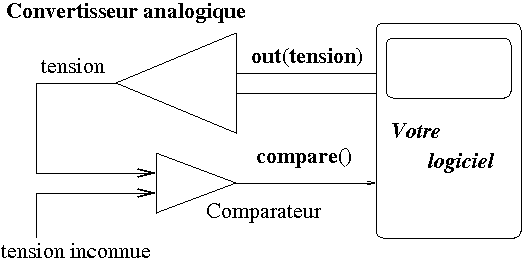
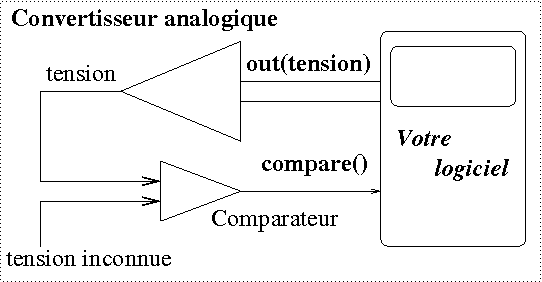
git-svn-id: https://scm.gforge.inria.fr/anonscm/svn/javascool@639 79b98d2d-744f-0410-929f-8ac7b80d50f7

diff --git a/javascool_V3/trunk/org.javascool/src/org/javascool/doc-files/about-keystrokes.htm b/javascool_V3/trunk/org.javascool/src/org/javascool/doc-files/about-keystrokes.htm
@@ -1,0 +1,92 @@
+
+<!DOCTYPE html
+  PUBLIC "-//W3C//DTD HTML 3.2 Final//EN" "http://www.w3.org/TR/html4/strict.dtd">
+<div>
+   <h2>Table des raccourcis.</h2>
+   
+   
+   <table align="center" width="90%" bgcolor="#eeeeee" class="table">
+      <h2>Editeur de texte ou donn&eacute;e.</h2>
+          
+      <tr>
+         <td valign="top"></td>
+         <td valign="top"></td>
+         <td valign="top"></td>
+      </tr>
+          
+      <tr>
+         <td valign="top">Control O</td>
+         <td valign="top">(open)</td>
+         <td valign="top">Ouvrir un fichier pour l'&eacute;diter</td>
+      </tr>
+          
+      <tr>
+         <td valign="top">Control S</td>
+         <td valign="top">(save)</td>
+         <td valign="top">Sauvegarder le contenu &eacute;dit&eacute; dans un fichier</td>
+      </tr>
+          
+      <tr>
+         <td valign="top">Control L</td>
+         <td valign="top">(launch)</td>
+         <td valign="top">Valider / compiler le contenu &eacute;dit&eacute;</td>
+      </tr>
+          
+      <tr>
+         <td valign="top">Control Q</td>
+         <td valign="top">(quit)</td>
+         <td valign="top">Quitter le logiciel</td>
+      </tr>
+          
+      <tr>
+         <td valign="top"></td>
+         <td valign="top"></td>
+         <td valign="top"></td>
+      </tr>
+          
+      <tr>
+         <td valign="top">Control C</td>
+         <td valign="top">(copy)</td>
+         <td valign="top">Copier la portion de texte ou de donn&eacute;e s&eacute;lectionn&eacute;e</td>
+      </tr>
+          
+      <tr>
+         <td valign="top">Control X</td>
+         <td valign="top">(cut)</td>
+         <td valign="top">Couper la portion de texte ou de donn&eacute;e s&eacute;lectionn&eacute;e</td>
+      </tr>
+          
+      <tr>
+         <td valign="top">Control V</td>
+         <td valign="top">(paste)</td>
+         <td valign="top">Coller la portion de texte ou de donn&eacute;e s&eacute;lectionn&eacute;e, pr&eacute;cdemment copi&eacute;e ou coup&eacute;e</td>
+      </tr>
+          
+      <tr>
+         <td valign="top"></td>
+         <td valign="top"></td>
+         <td valign="top"></td>
+      </tr>
+        
+   </table>
+   
+     
+   <table align="center" width="90%" bgcolor="#eeeeee" class="table">
+      <h2>Editeur de texte.</h2>
+          
+      <tr>
+         <td valign="top">Control Z</td>
+         <td valign="top">(undo)</td>
+         <td valign="top">Annuler la derni&egrave;re commande d'&eacute;dition</td>
+      </tr>
+          
+      <tr>
+         <td valign="top">Control Y</td>
+         <td valign="top">(redo)</td>
+         <td valign="top">Restaurer la derni&egrave;re commande d'&eacute;dition</td>
+      </tr>
+        
+   </table>
+   
+   
+</div>

diff --git a/javascool_V3/trunk/org.javascool/src/org/javascool/SourceEditor.java b/javascool_V3/trunk/org.javascool/src/org/javascool/SourceEditor.java
@@ -74,6 +74,7 @@ import javax.swing.event.DocumentListener;
 import javax.swing.event.DocumentEvent;
 
 /** This widget defines a general proglet source editor.
+ * @see <a href="doc-files/about-keystrokes.htm">key-strokes (in French)</a>
  * @see <a href="SourceEditor.java.html">source code</a>
  * @serial exclude
  */
@@ -127,21 +128,21 @@ public class SourceEditor extends JPanel implements Widget,Editor {
       menu.add(undo.getRedoItem());
       menu.addSeparator();
       JMenuItem item;
-      menu.add(item = new JMenuItem(getAction(pane, DefaultEditorKit.copyAction))); item.setText("^C Copy");
-      menu.add(item = new JMenuItem(getAction(pane, DefaultEditorKit.cutAction))); item.setText("^X Cut");
-      menu.add(item = new JMenuItem(getAction(pane, DefaultEditorKit.pasteAction))); item.setText("^V Paste");
+      menu.add(item = new JMenuItem(getAction(pane, DefaultEditorKit.copyAction))); item.setText("Copier");
+      menu.add(item = new JMenuItem(getAction(pane, DefaultEditorKit.cutAction))); item.setText("Couper");
+      menu.add(item = new JMenuItem(getAction(pane, DefaultEditorKit.pasteAction))); item.setText("Coller");
       menu.addSeparator();
-      menu.add(item = new JMenuItem(getAction(pane, DefaultEditorKit.selectAllAction))); item.setText("^A Select all");
+      menu.add(item = new JMenuItem(getAction(pane, DefaultEditorKit.selectAllAction))); item.setText("Tout sélectionner");
       menu.addSeparator();     
       // Adds a print interface
-      AbstractAction print = new AbstractAction("^P Print") {
+      AbstractAction print = new AbstractAction("Imprimer") {
 	  private static final long serialVersionUID = 1L;
 	  public void actionPerformed(ActionEvent evt) { 
 	    doPrint();
 	  }
 	};
       menu.add(new JMenuItem(print));
-      addBinding(pane, KeyEvent.VK_P, print);
+      // addBinding(pane, KeyEvent.VK_P, print);
 
       // Textfind/replace manager: to be improved before use
       // menu.addSeparator();
@@ -259,13 +260,13 @@ public class SourceEditor extends JPanel implements Widget,Editor {
       addBinding(pane, KeyEvent.VK_Z, undo_action);
       addBinding(pane, KeyEvent.VK_Y, redo_action);
     }
-    private Action undo_action = new AbstractAction("^Z Undo") {
+    private Action undo_action = new AbstractAction("Annuler") {
 	private static final long serialVersionUID = 1L;
 	public void actionPerformed(ActionEvent evt) { 
 	  try { if (canUndo()) undo(); undoUpdate(); } catch (Exception e) { }
 	}
       };
-    private Action redo_action = new AbstractAction("^Y Redo") {
+    private Action redo_action = new AbstractAction("Restaurer") {
 	private static final long serialVersionUID = 1L;
 	public void actionPerformed(ActionEvent evt) { 
 	  try { if (canRedo()) redo(); undoUpdate(); } catch (Exception e) { }
@@ -321,14 +322,14 @@ public class SourceEditor extends JPanel implements Widget,Editor {
       addBinding(pane, KeyEvent.VK_R, replace_action);
     }
     private JTextComponent pane;
-    private Action search_action = new AbstractAction("^S   Search:") {
+    private Action search_action = new AbstractAction("Chercher") {
 	private static final long serialVersionUID = 1L;
 	public void actionPerformed(ActionEvent e) { 
 	  if (search != null)
 	    doFindReplace(search.getText(), null);
 	}
       };
-    private Action replace_action = new AbstractAction("^R Replace:") {
+    private Action replace_action = new AbstractAction("Remplacer") {
 	private static final long serialVersionUID = 1L;
 	public void actionPerformed(ActionEvent e) {
 	  if ((search != null) && (replace != null))
@@ -338,13 +339,13 @@ public class SourceEditor extends JPanel implements Widget,Editor {
     /** Returns the search button. * /
     public JPanel getSearchItem(JMenu menu) {
       if (search == null)
-	search = new JMenuField(menu, "^S   Search", search_action);
+	search = new JMenuField(menu, "Chercher", search_action);
       return search;
     }
     /** Returns the replace button. * /
     public JPanel getReplaceItem(JMenu menu) {
       if (replace == null)
-	replace = new JMenuField(menu, "^R Replace", replace_action);
+      replace = new JMenuField(menu, "Remplacer", replace_action);
       return replace;
     }
     private JMenuField search = null, replace = null;

diff --git a/javascool_V3/trunk/org.javascool/src/org/javascool/AlgoEditor.java b/javascool_V3/trunk/org.javascool/src/org/javascool/AlgoEditor.java
@@ -32,6 +32,7 @@ import java.awt.Event;
 import java.awt.event.KeyEvent;
 
 /** This widget defines a re-oriented graohic algorithm editor. 
+ * @see <a href="doc-files/about-keystrokes.htm">key-strokes (in French)</a>
  * @see <a href="AlgoEditor.java.html">source code</a>
  * @see Jvs2Java
  * @serial exclude
@@ -46,7 +47,7 @@ public class AlgoEditor extends JPanel implements Widget,Editor {
   {
     setLayout(new BorderLayout());
     JPanel bar = new JPanel();
-    edit = new JComboBox(new String[] {"Edit", "^C Copier", "^X Couper/Supprimer", "^V Coller", "^L Check"});
+    edit = new JComboBox(new String[] {"Edit", "Copier", "Couper/Supprimer", "Coller", "Valider"});
     edit.addActionListener(new ActionListener() {
 	private static final long serialVersionUID = 1L;
 	public void actionPerformed(ActionEvent e) {
@@ -531,11 +532,11 @@ public class AlgoEditor extends JPanel implements Widget,Editor {
     addTrailer((DefaultMutableTreeNode) root.getChildAt(0), "FIN_PROGRAMME");
   }
   private void doEdit(String action) {
-    if ("^C Copier".equals(action)) {
+    if ("Copier".equals(action)) {
       DefaultMutableTreeNode node = getCurrentNode(false);
       clipboard = copy(node);
       System.out.println(action + " : " + getText(clipboard, 0) + " == " + getText(node, 0));
-    } else if ("^X Couper/Supprimer".equals(action)) {
+    } else if ("Couper/Supprimer".equals(action)) {
       DefaultMutableTreeNode node = getCurrentNode(false);
       if (node == root.getChildAt(0)) {
 	dialog.show(Jdialog, "supprimer");
@@ -544,7 +545,7 @@ public class AlgoEditor extends JPanel implements Widget,Editor {
 	model.removeNodeFromParent(node);
 	System.out.println(action + " : " + getText(clipboard, 0));
       }
-    } else if ("^V Coller".equals(action)) {
+    } else if ("Coller".equals(action)) {
       DefaultMutableTreeNode node = getCurrentNode(true);
       if (node == null) {
 	showMessage("Selectionner un position avant de coller");
@@ -554,7 +555,7 @@ public class AlgoEditor extends JPanel implements Widget,Editor {
 	model.insertNodeInto(n, node, getCurrentNodeIndex(node));
 	System.out.println(action + " : " + getText(clipboard, 0));
       }
-    } else if ("^L Check".equals(action)) {
+    } else if ("Valider".equals(action)) {
       System.out.println(action + " : " + getText() + " == \n" + getJavaSource());
       Utils.saveString("tmp.jvs", getJavaSource());
       Jvs2Java.translate("tmp.jvs");
@@ -577,25 +578,25 @@ public class AlgoEditor extends JPanel implements Widget,Editor {
     tree.getActionMap().put("copier",  new AbstractAction("copier") {
 	private static final long serialVersionUID = 1L;
 	public void actionPerformed(ActionEvent e) { 
-	  doEdit("^C Copier");
+	  doEdit("Copier");
 	}});
     tree.getInputMap().put(KeyStroke.getKeyStroke(KeyEvent.VK_X, Event.CTRL_MASK), "couper");
     tree.getActionMap().put("couper",  new AbstractAction("couper") {
 	private static final long serialVersionUID = 1L;
 	public void actionPerformed(ActionEvent e) { 
-	  doEdit("^X Couper/Supprimer");
+	  doEdit("Couper/Supprimer");
 	}});
     tree.getInputMap().put(KeyStroke.getKeyStroke(KeyEvent.VK_V, Event.CTRL_MASK), "coller");
     tree.getActionMap().put("coller",  new AbstractAction("coller") {
 	private static final long serialVersionUID = 1L;
 	public void actionPerformed(ActionEvent e) { 
-	  doEdit("^V Coller");
+	  doEdit("Coller");
 	}});
     tree.getInputMap().put(KeyStroke.getKeyStroke(KeyEvent.VK_L, Event.CTRL_MASK), "check");
     tree.getActionMap().put("check",  new AbstractAction("check") {
 	private static final long serialVersionUID = 1L;
 	public void actionPerformed(ActionEvent e) { 
-	  doEdit("^L Check");
+	  doEdit("Valider");
 	}});
   }
   private DefaultMutableTreeNode clipboard = null;

diff --git a/javascool_V3/trunk/org.javascool/src/org/javascool/PmlSourceEditor.java b/javascool_V3/trunk/org.javascool/src/org/javascool/PmlSourceEditor.java
@@ -1,0 +1,25 @@
+/*******************************************************************************
+ * Philippe.Vienne@linux-azur.org, Copyright (C) 2010.  All rights reserved.   *
+ *******************************************************************************/
+
+package org.javascool;
+
+// Used to manage the colorization
+import javax.swing.text.Segment;
+
+/** This widget defines a Pml structure source editor.
+ * @see <a href="doc-files/about-keystrokes.htm">key-strokes (in French)</a>
+ * @see <a href="PmlSourceEditor.java.html">source code</a>
+ * @serial exclude
+ */
+public class PmlSourceEditor extends SourceEditor implements Widget {
+  private static final long serialVersionUID = 1L;
+
+  public void doReformat() { 
+    // A definir
+  }
+
+  public void doColorize(Segment text) {
+    // A definir
+  }
+}

diff --git a/javascool_V3/trunk/org.javascool/src/org/javascool/Jvs2Java.java b/javascool_V3/trunk/org.javascool/src/org/javascool/Jvs2Java.java
@@ -216,11 +216,10 @@ public class Jvs2Java { private Jvs2Java() { }
 
   /** Returns the proglet panel.
    * @param proglet The proglet class name.
-   * @return The panel corresponding to the proglet.
+   * @return The panel corresponding to the proglet, if any; else an empty panel.
    */
   public static JPanel getPanel(String proglet) {
-    try { return (JPanel) Class.forName(Jvs2Java.proglets.get(proglet)).getField("panel").get(null); } 
-    catch(Exception e) { Utils.report(e); return new JPanel(); }
+    try { return (JPanel) Class.forName(Jvs2Java.proglets.get(proglet)).getField("panel").get(null); } catch(Exception e) { return new JPanel(); }
   }
 
   /** Runs/Stops the proglet pupil's program. 

diff --git a/javascool_V3/trunk/org.javascool/src/proglet/convanalogique/ConvAnalogique.java b/javascool_V3/trunk/org.javascool/src/proglet/convanalogique/ConvAnalogique.java
@@ -34,12 +34,11 @@ public class ConvAnalogique implements org.javascool.Proglet { private ConvAnalo
       JLayeredPane pane = new JLayeredPane();
       pane.setPreferredSize(new Dimension(540, 300));
       JLabel fig = new JLabel();
-      fig.setHorizontalAlignment(JLabel.CENTER);
       fig.setIcon(Utils.getIcon("proglet/convanalogique/doc-files/conv.png"));
-      fig.setBounds(2, 0, 540, 300);
+      fig.setBounds(3, 0, 540, 300);
       pane.add(fig, new Integer(1), 0);
       out = new JLabel("????");
-      out.setBounds(270, 80, 100, 50);
+      out.setBounds(270, 78, 100, 50);
       pane.add(out, new Integer(2), 0);
       cmp = new JLabel("?");
       cmp.setBounds(190, 178, 100, 50);

diff --git a/javascool_V3/trunk/org.javascool/src/org/javascool/CurveOutput.java b/javascool_V3/trunk/org.javascool/src/org/javascool/CurveOutput.java
@@ -35,7 +35,7 @@ public class CurveOutput extends JPanel implements Widget {
   private static class oval { int i; int j; int w; int h; Color c; } private Vector<oval> ovals = new Vector<oval>();
   private static class label { int i; int j; String s; Color c; } private Vector<label> labels = new Vector<label>();
   {
-    setBackground(Color.WHITE); setPreferredSize(new Dimension(522, 430));
+    setPreferredSize(new Dimension(522, 430));
     ReticuleMouseListener l = new ReticuleMouseListener();
     addMouseMotionListener(l);
     addMouseListener(l);

diff --git a/javascool_V3/trunk/org.javascool/src/org/javascool/JvsSourceEditor.java b/javascool_V3/trunk/org.javascool/src/org/javascool/JvsSourceEditor.java
@@ -7,8 +7,10 @@ package org.javascool;
 // Used to manage the colorization
 import javax.swing.text.Segment;
 
-/** This widget defines the proglet source editor.
+/** This widget defines a Jvs code source editor.
+ * @see <a href="doc-files/about-keystrokes.htm">key-strokes (in French)</a>
  * @see <a href="JvsSourceEditor.java.html">source code</a>
+ * @see Jvs2Java
  * @serial exclude
  */
 public class JvsSourceEditor extends SourceEditor implements Widget {
